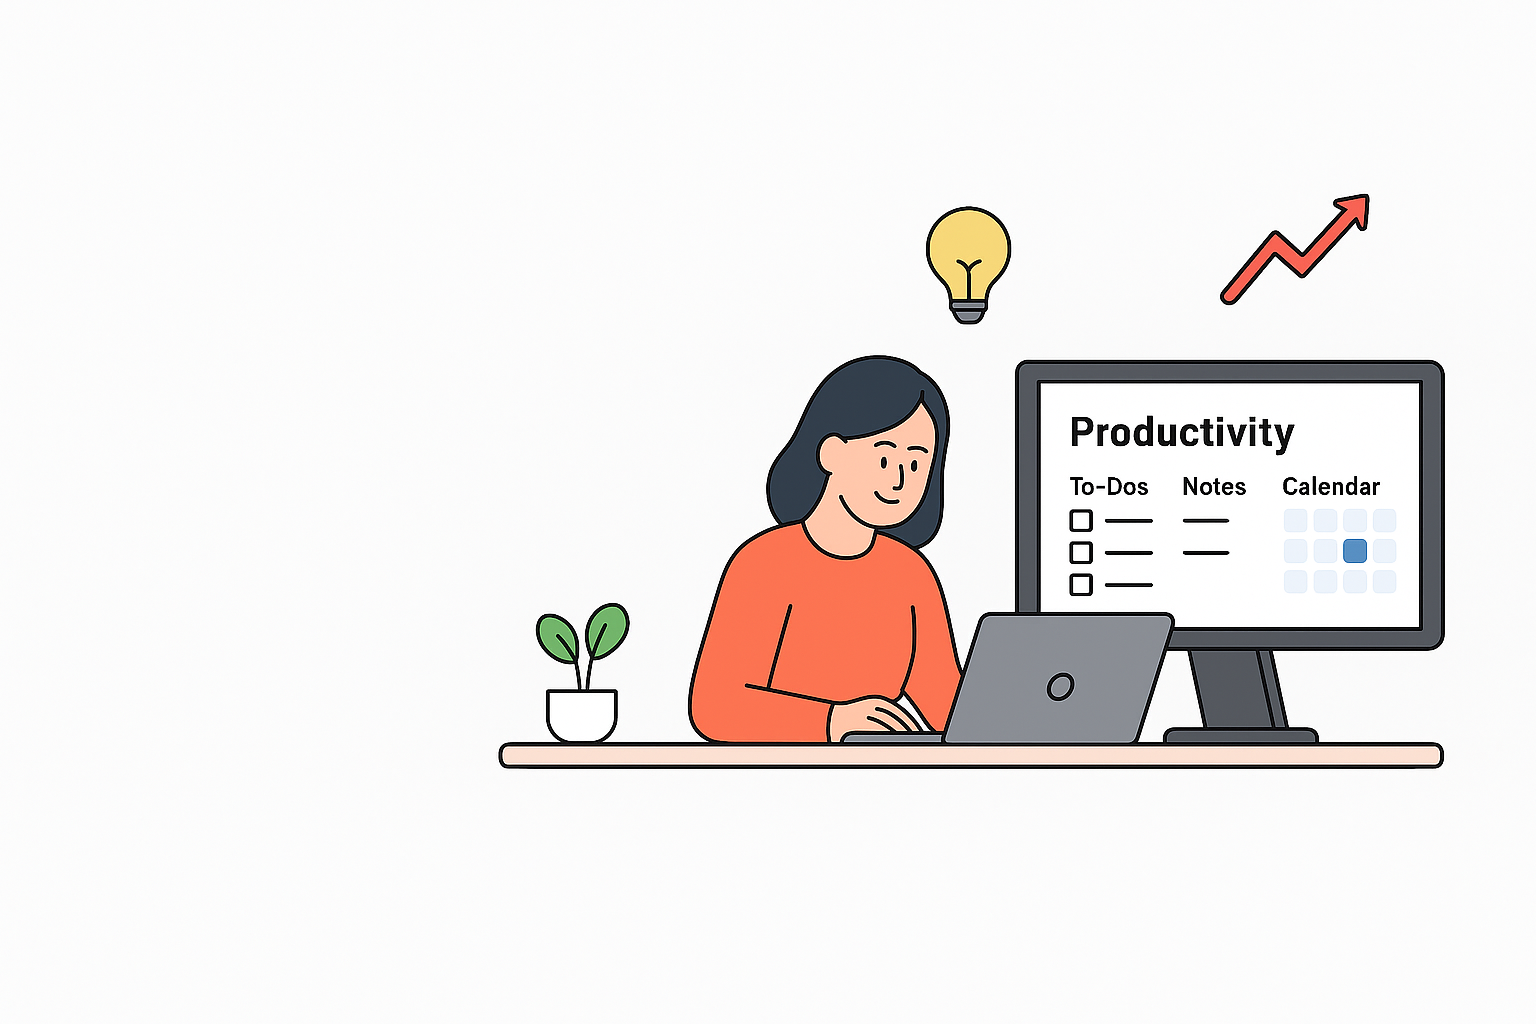
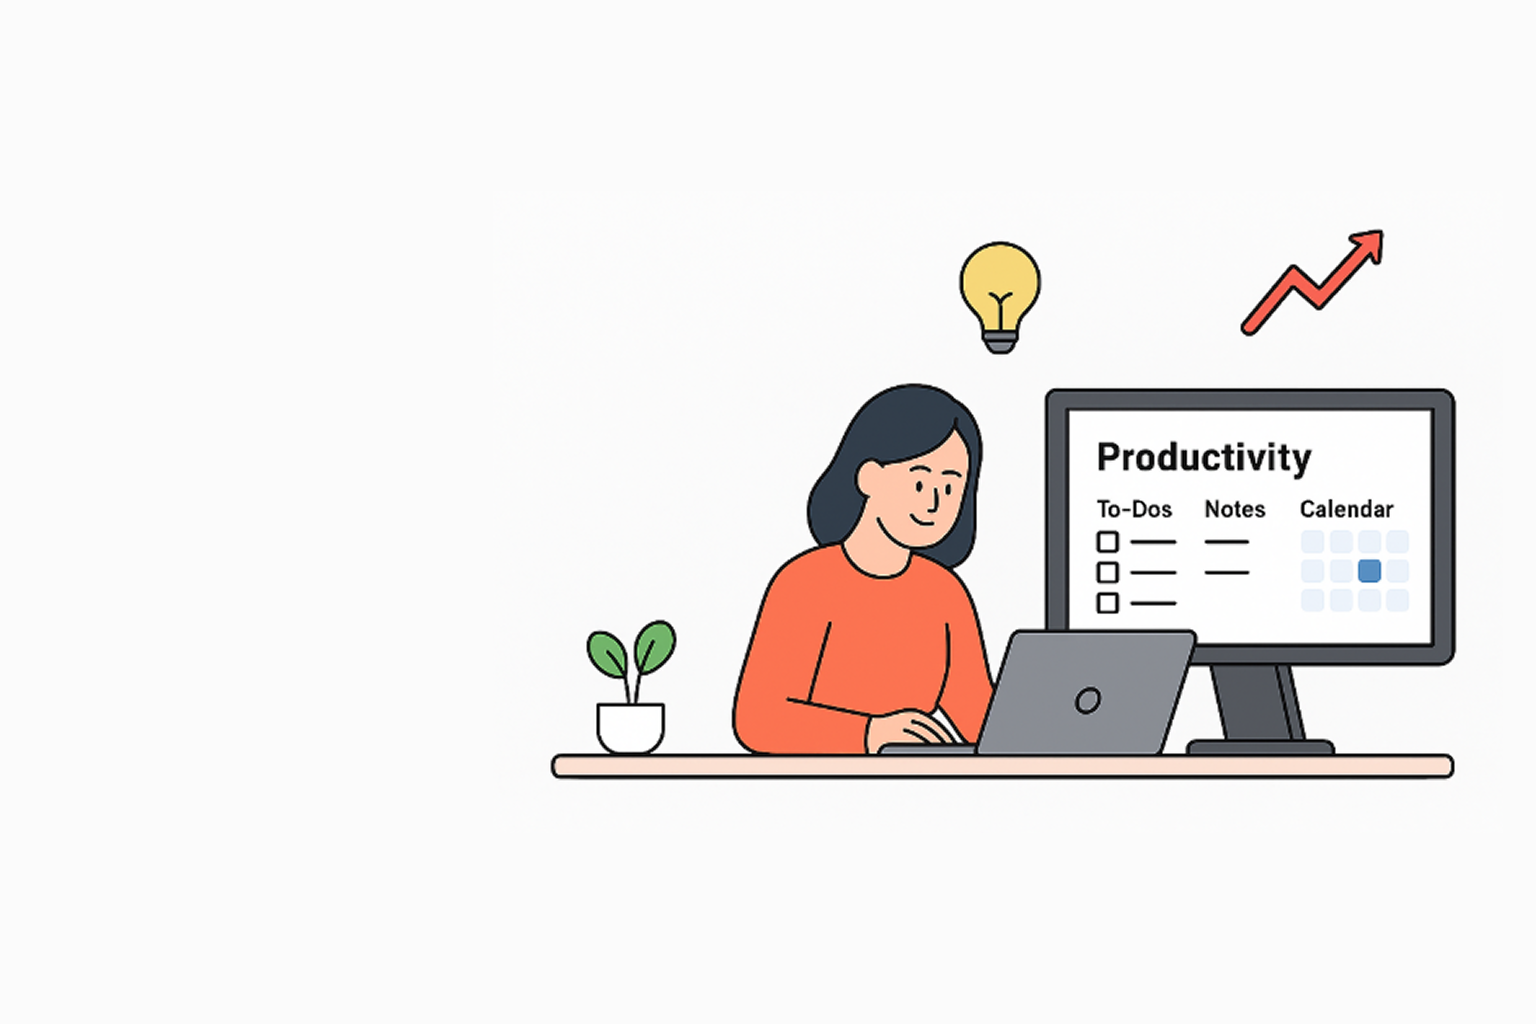
배너 이미지 비율 수정

Changed region(s): [[0.3125, 0.1875, 0.9688, 0.7812]]

diff --git a/src/components/common/Slider.tsx b/src/components/common/Slider.tsx
@@ -12,19 +12,19 @@ const Slider = () => {
     {
       name: "productivity-tools",
       title: "생산성 향상을 위한 스마트 도구",
-      text: "계획부터 실행까지, 효율적인 하루를 만들어보세요.",
+      text: "계획부터 실행까지, 효율적인 하루를 만들어보세요",
       img: banner1,
     },
     {
       name: "template-gallery",
       title: "감각적인 디자인 템플릿",
-      text: "간결하고 트렌디한 템플릿으로 더 멋지게 기록해보세요.",
+      text: "간결하고 트렌디한 템플릿으로 더 멋지게 기록해보세요",
       img: banner2,
     },
     {
       name: "creator-workflow",
       title: "크리에이터의 워크플로우 정립",
-      text: "나만의 콘텐츠 제작 루틴을 만들어보세요.",
+      text: "나만의 콘텐츠 제작 루틴을 만들어보세요",
       img: banner3,
     },
   ];
@@ -40,11 +40,13 @@ const Slider = () => {
     >
       {items.map((item) => (
         <div key={item.name} className={styles.carouselSlide}>
-          <div className={styles.carouselDescription}>
-            <h2 className={styles.carouselTitle}>{item.title}</h2>
-            <p className={styles.carouselText}>{item.text}</p>
+          <div className={styles.carouselInner}>
+            <img src={item.img} alt={item.name} className={styles.carouselImage} />
+            <div className={styles.carouselDescription}>
+              <h2 className={styles.carouselTitle}>{item.title}</h2>
+              <p className={styles.carouselText}>{item.text}</p>
+            </div>
           </div>
-          <img src={item.img} alt={item.name} className={styles.carouselImage} />
         </div>
       ))}
     </Carousel>

diff --git a/src/components/common/Slider.module.css b/src/components/common/Slider.module.css
@@ -5,41 +5,61 @@
 }
 
 .carouselSlide {
+
+  width: 100%;
+  height: 500px; 
+
   position: relative;
+  background-color: #FBFBFB;
 }
+
+.carouselInner {
+  position: relative;
+  display: inline-block;
+  width: 90%;
+  max-width: 1000px;
+
+  aspect-ratio: 16/9; 
+}
+
 
 .carouselDescription {
   position: absolute;
-  bottom: 33%;
-  left: 24px;
-  text-align: left;
+
+  display: flex;
+  flex-direction: column;
+
+  align-items: flex-start;
+
+  bottom: 50%;
+  left: 0;
+
   z-index: 1;
+
+  color: #464646;
 }
 
-@media screen and (min-width: 768px) {
-  .carouselDescription {
-    left: 80px;
-  }
+.carouselDescription h2 {
+  margin: 0;
 }
+
 
 .carouselTitle {
-  font-size: 24px;
+  font-size: 32px;
   font-weight: bold;
   color: #464646;
 }
 
-@media screen and (min-width: 768px) {
-  .carouselTitle {
-    font-size: 36px;
-  }
-}
 
 .carouselText {
   margin-top: 8px;
   color: #464646;
+
+  font-size: 16px;
 }
 
 .carouselImage {
-  width: 80%;
-  height: 700px;
+  width: 100%;
+  height: 100%;
+  object-fit: contain;
 }

diff --git a/src/components/products/ProductGrid.tsx b/src/components/products/ProductGrid.tsx
@@ -35,7 +35,7 @@ export default function ProductGrid({ products }: ProductGridProps) {
   const { addToCart } = useCart();
 
   return (
-    <div>
+
       <div className={styles.grid}>
         {products.map((product) => {
           const isWished = wishlist.includes(product.id);
@@ -82,6 +82,6 @@ export default function ProductGrid({ products }: ProductGridProps) {
           );
         })}
       </div>
-    </div>
+
   );
 }

diff --git a/src/components/pages/wishlist/WishListPage.module.css b/src/components/pages/wishlist/WishListPage.module.css
@@ -159,7 +159,7 @@
     height: 60px;
 
     font-size: 16px;
-    border-radius:15px;
+    border-radius: 15px;
 
     cursor: pointer;
 }
